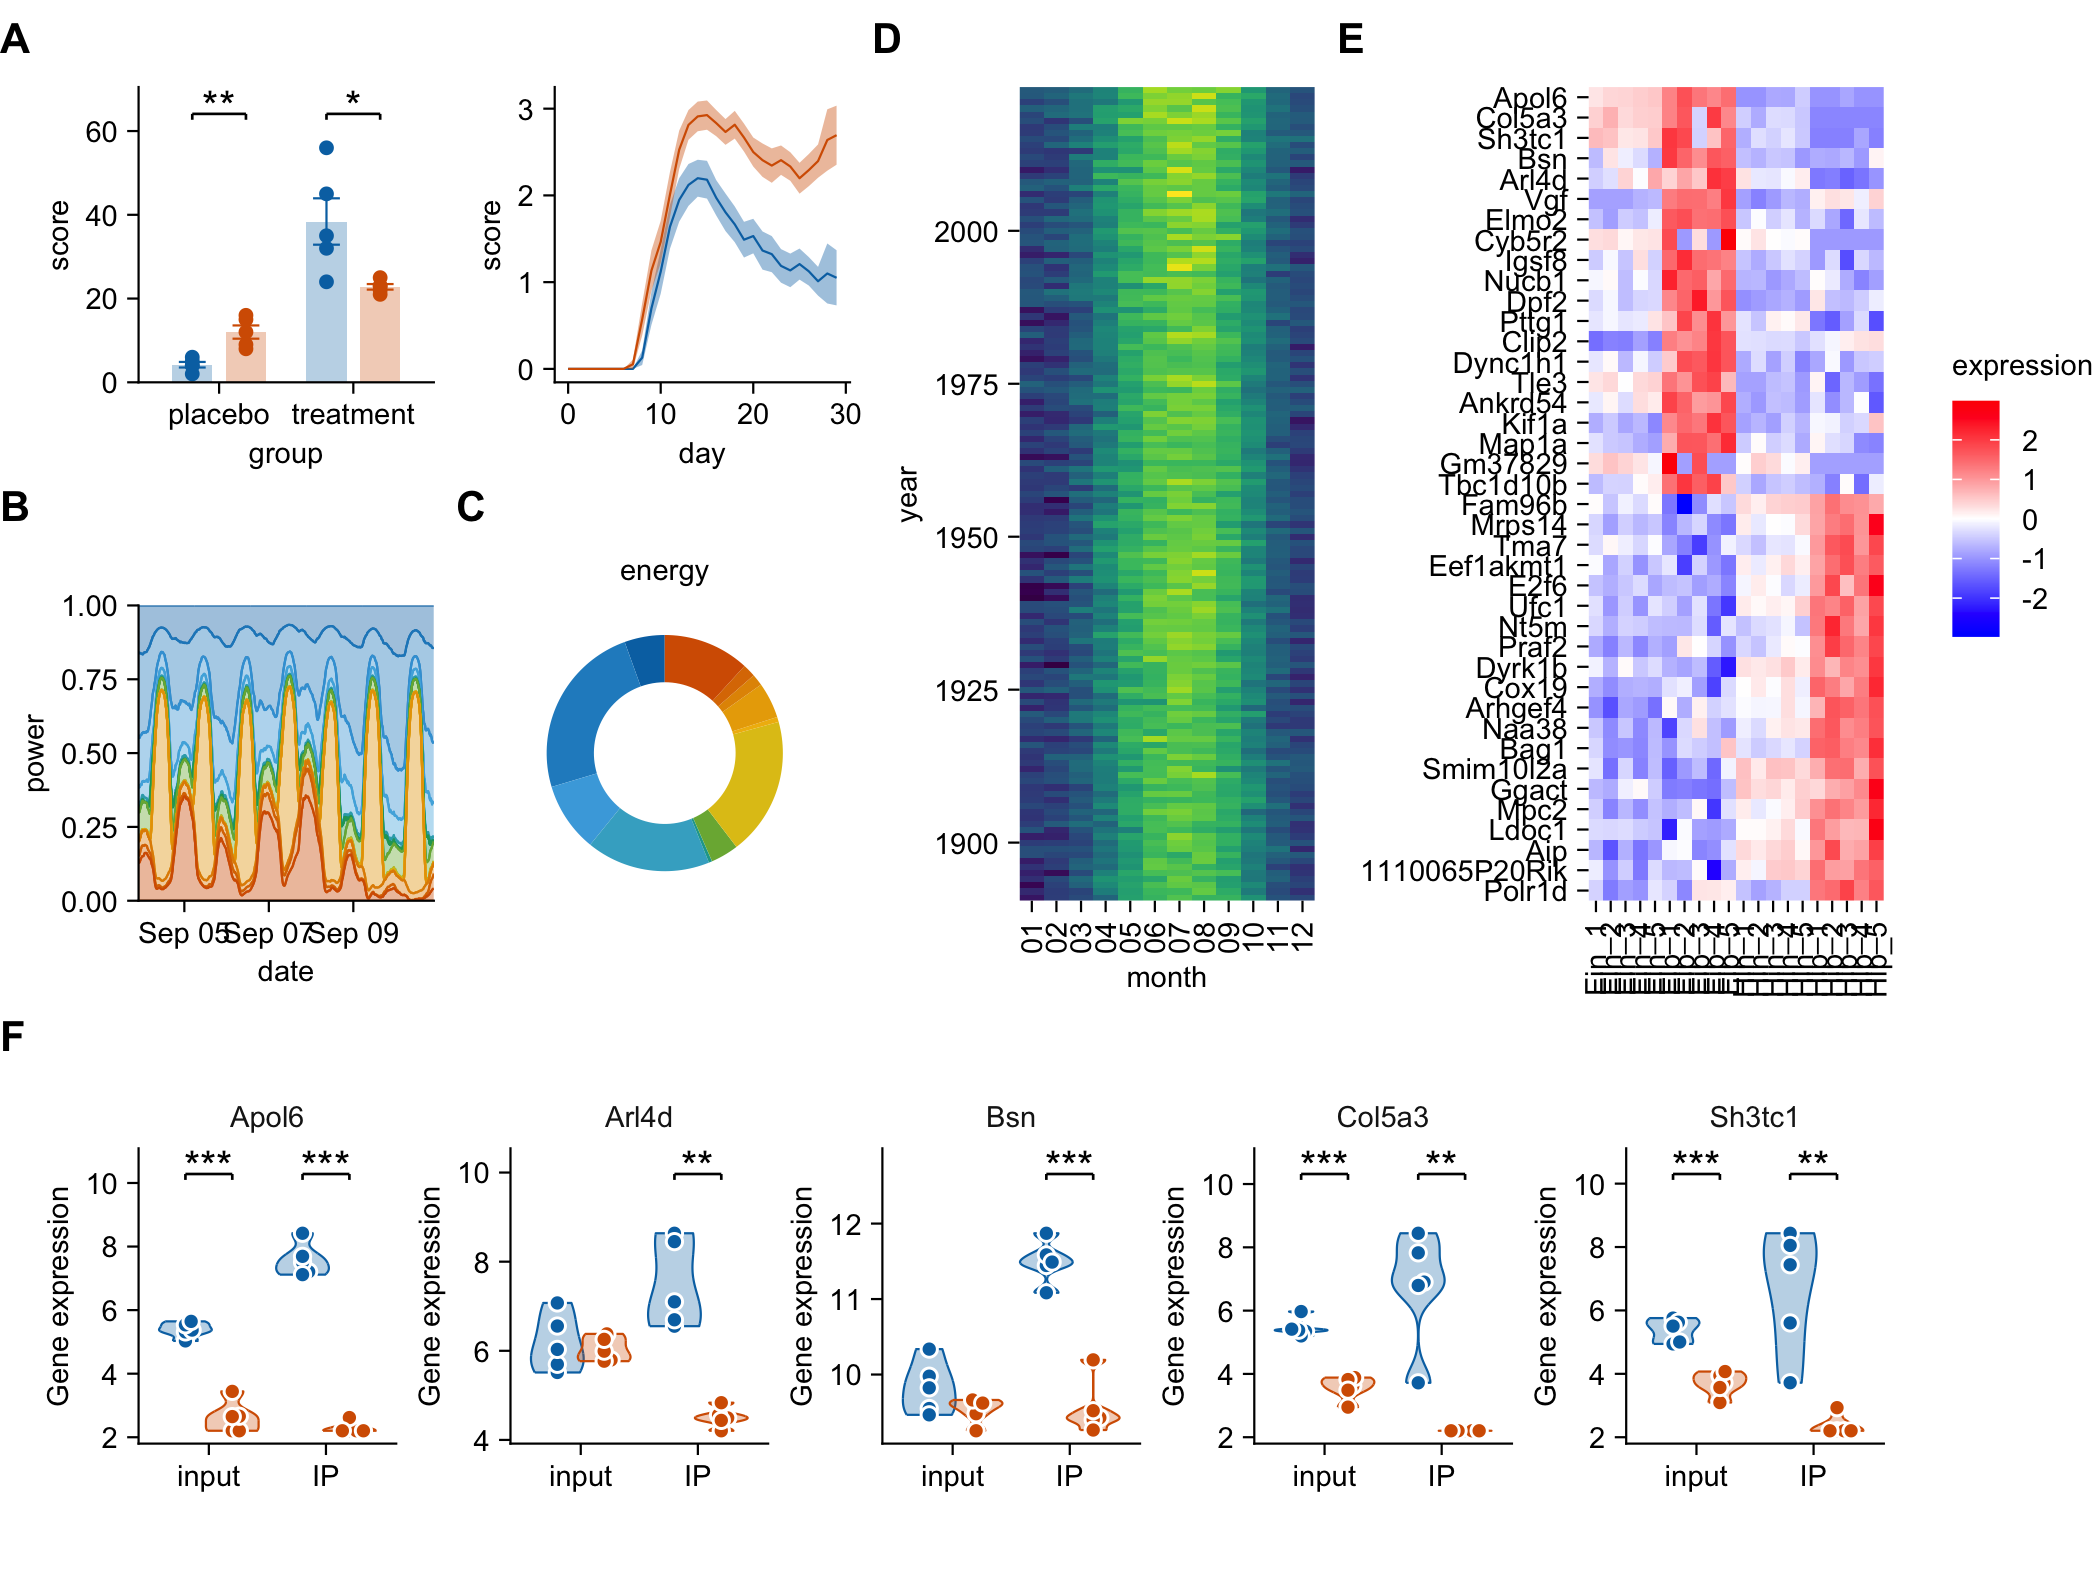
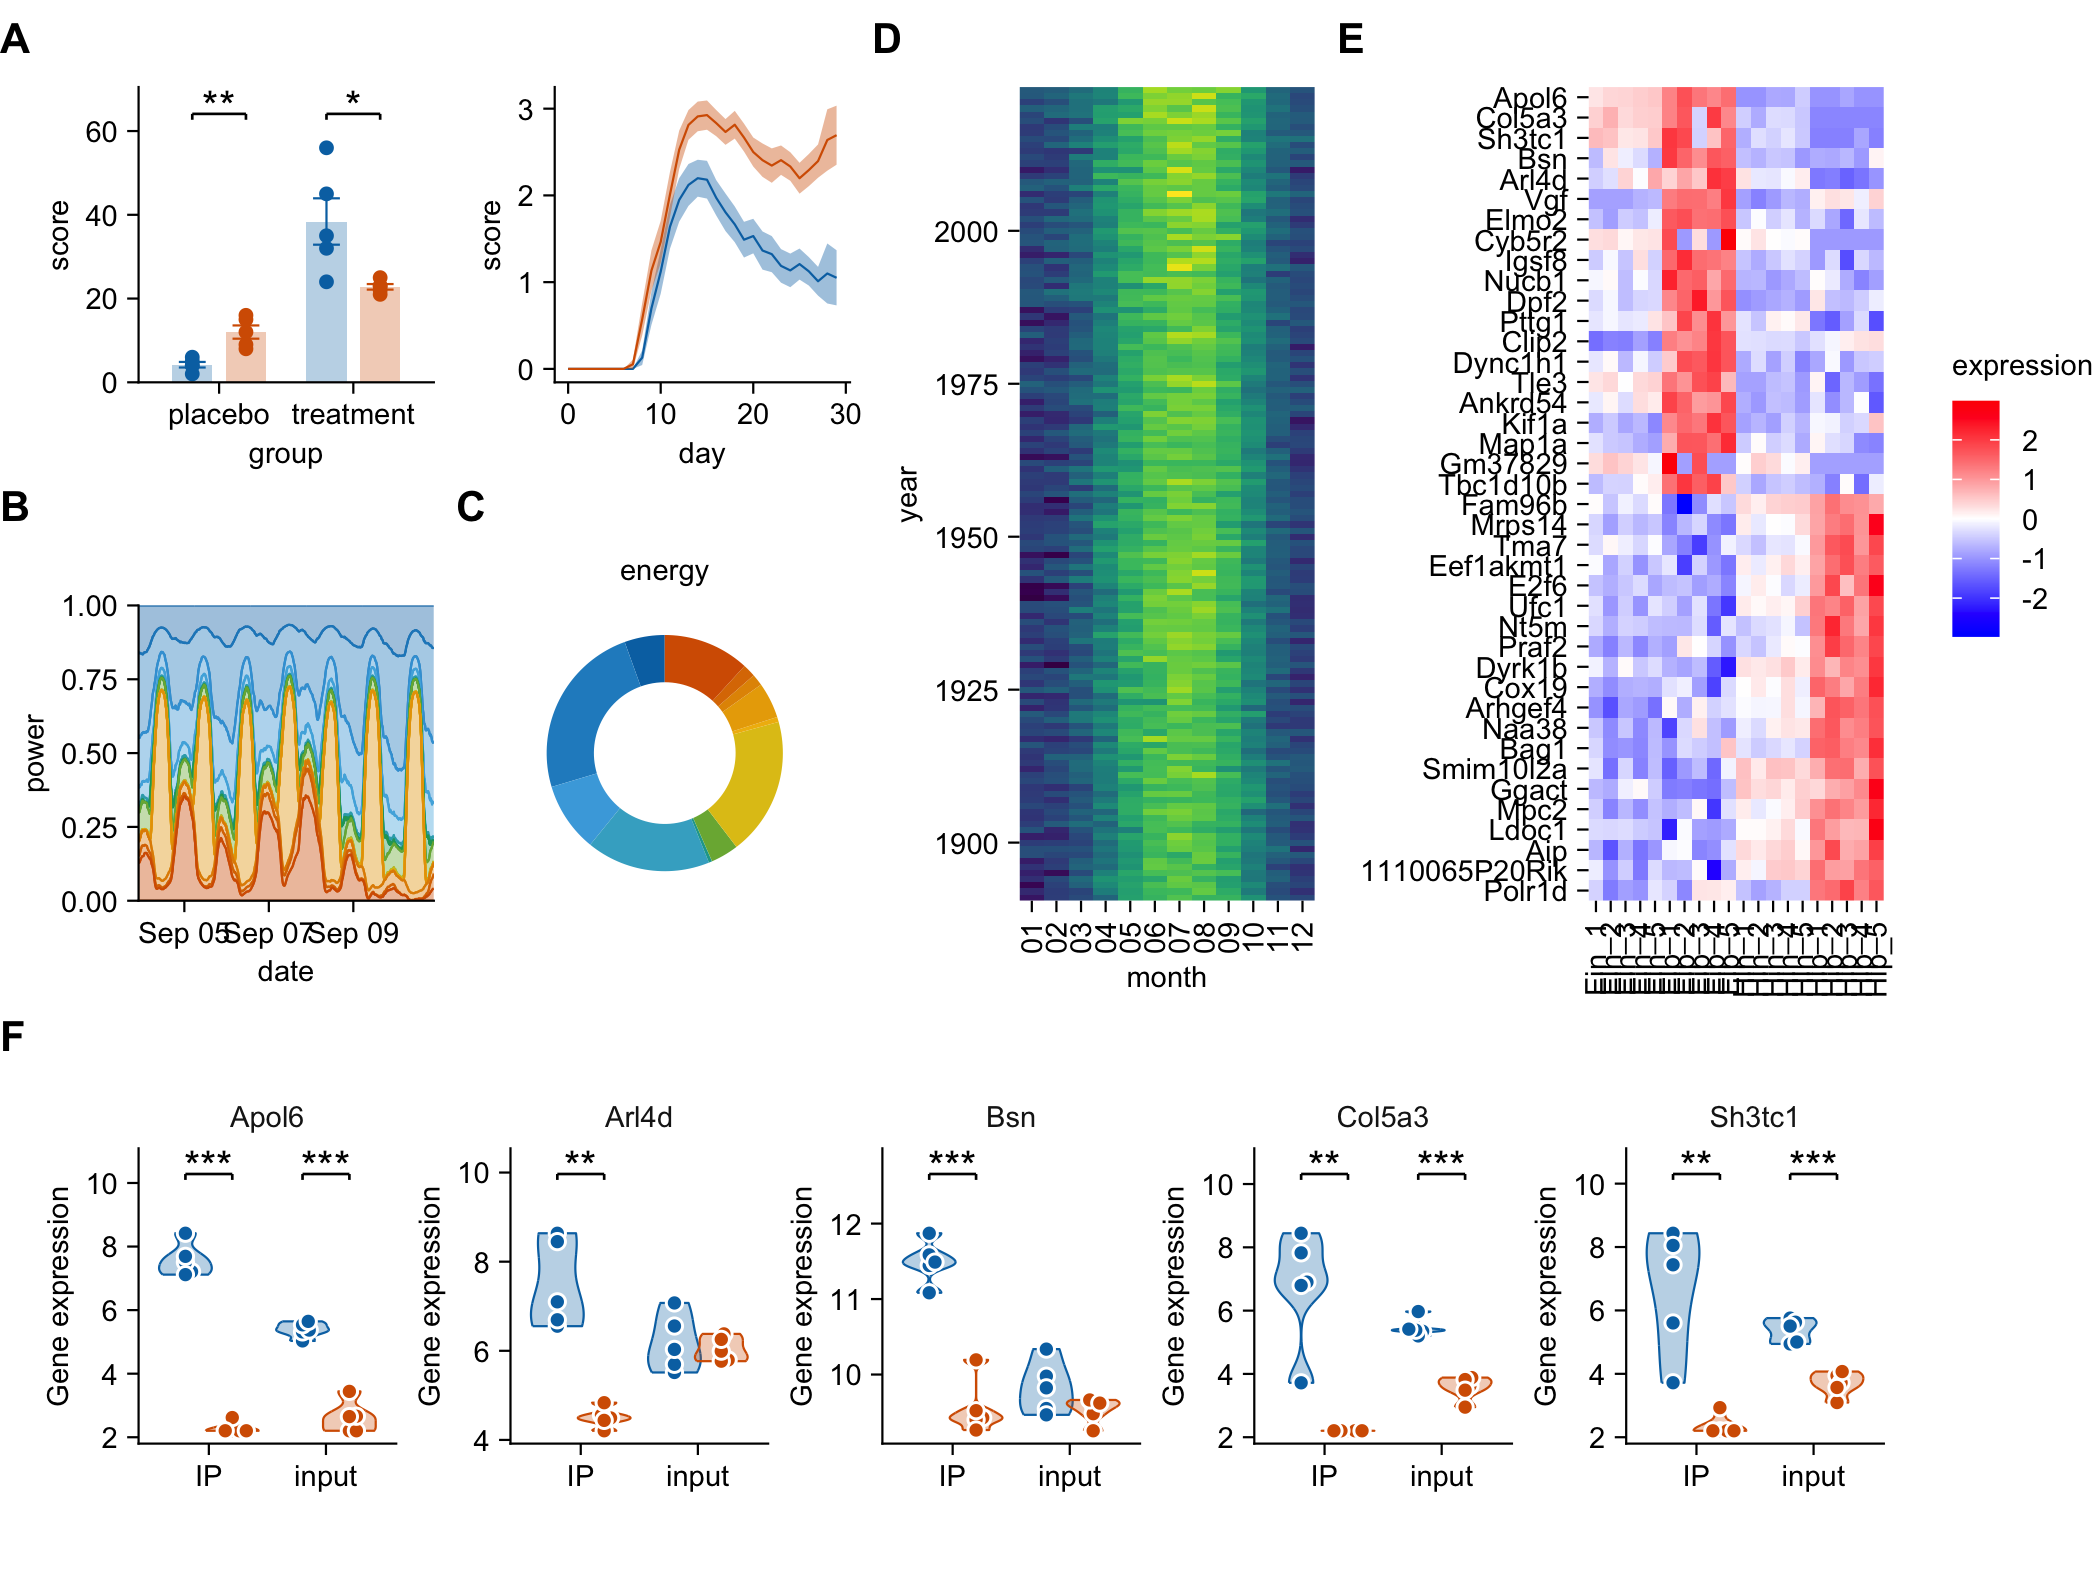
add CI CMD check

diff --git a/README.md b/README.md
@@ -7,6 +7,7 @@
 
 [![Lifecycle:
 experimental](https://img.shields.io/badge/lifecycle-experimental-orange.svg)](https://lifecycle.r-lib.org/articles/stages.html#experimental)
+[![R-CMD-check](https://github.com/jbengler/tidylayouts/actions/workflows/R-CMD-check.yaml/badge.svg)](https://github.com/jbengler/tidylayouts/actions/workflows/R-CMD-check.yaml)
 <!-- badges: end -->
 
 The goal of `tidylayouts` is to streamline the creation of multi-plot
